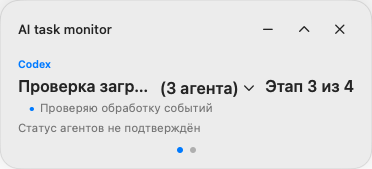
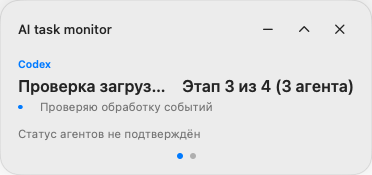
Publish macOS 0.3.13 and current screenshots [publish-verified]

diff --git a/docs/DECISIONS-AND-QUESTIONS.md b/docs/DECISIONS-AND-QUESTIONS.md
@@ -23,13 +23,44 @@
 - Запрос пользователя: сделать переключение задач по точкам независимым от обновления данных. Чтение источников и диагностика в текущей версии Windows выполняют синхронную работу на потоке окна; состояние источников и поздние ответы требуют безопасного разделения. Аналогичную проверку выполнить для macOS. До проверки при заблокированном чтении нельзя считать отклик подтверждённым.
 - На изолированном примере Windows PowerShell 5 фоновый runspace не удерживал интерфейс при ожидании, но удерживал процесс после окончания скрипта не менее восьми секунд. Этот способ не внедрён. Для безопасного переноса необходимо отдельно проверить жизненный цикл фонового сборщика, сохранение состояния источников и отбрасывание устаревших ответов; не останавливать работающие источники или записи принудительно без доказанной безопасности.
 - Прототип отдельного процесса чтения Windows проверен на синтетических данных локально и на изолированном Windows runner: при закрытии его владельца система завершает зависший процесс; для канала проверены права текущего пользователя и идентификатор подключившегося процесса. Настоящий обработчик точки проверен при задержанном тестовом чтении с подменённой отрисовкой. Прототип ещё не подключён к источникам приложения, фактическое окно и переключение при обновлении источников не проверены. Независимая проверка выявила необходимость сохранить события между ответами и устранить окно запуска процесса до привязки к владельцу. Эксперимент macOS переносит чтение Codex с потока интерфейса, но Claude и другие источники пока остаются синхронными. Необходимы проверки первоначального и затянувшегося чтения, смены языка и каталога, восстановления источника и устаревших ответов.
+- Синтетическая проверка Windows показала, что при переподключении Claude отложенное событие старого hook нельзя надёжно отличить по времени от нового события. Идентификатор подключения требует изменений команды hook, но старые версии монитора не распознают такую команду и могут добавить дубликат или не удалить её. Дополнительно между сверкой хеша и заменой общих настроек сохраняется гонка с другой записью. Изменение действующих hooks пока не внедрено.
 - При нескольких помощниках текущие источники не дают достоверного времени именно отображённого действия для сравнения разных журналов; неподтверждённое или завершённое действие нельзя выдавать за выполняющееся. Пользователь выбрал счётчик всех запущенных помощников до подтверждения их выхода, в том числе при неизвестном состоянии.
 - Решение пользователя: при наличии плана показывать число запущенных помощников в активном этапе; без плана или в паузе, пока активного этапа нет, — у названия задачи. Когда появится активный этап, переносить число в него. Текущие данные Windows и macOS подтверждают связь помощника с задачей, но не с конкретным этапом: число на активном этапе означает общее число связанных помощников, а не подтверждённое назначение каждого из них на этот шаг. Реализация и проверка ещё не завершены.
+- В рабочем дереве Windows подготовлена разметка для счётчика и локально проверены активный этап, отсутствие и неоднозначность этапа, обе локализации, отдельный процент и кнопка раскрытия списка. Это ещё не подключение устойчивого счётчика к источнику. Визуальный прогон выполняется; одна прежняя проверка превью требовала обновления под согласованную пометку о неподтверждённом состоянии.
+- На контрольном снимке Windows `109d66c` изолированные проверки прошли, включая усечение и подсказки. Проверены снимки WPF в светлой и тёмной темах: число у активного этапа и у названия в паузе, раскрытый список и подсказка на длинном названии. Это синтетическое превью с примерными данными; установленное приложение, реальные источники и физический клик ещё не проверены. Полная визуальная проверка потребует повторного снимка после подключения фонового чтения и счётчика.
+- На Windows `d9fbdae` дополнительно проверены синтетические WPF-снимки RU/EN в обеих темах: отдельные сообщения о неполном числе и о числе вместе со статусом помещаются в компактном и полном режимах. Владелец локального чтения и первоначальный вариант фонового канала проверялись отдельно; последние исправления канала и оставшиеся синхронные операции не входят в этот визуальный снимок. Установленная версия и реальный пользовательский источник не проверены.
+- Снимок Windows `d9fbdae` прошёл полный изолированный CI, включая программный клик и визуальные примеры. На следующем снимке `0898d33` независимые локальные проверки фонового канала прошли, включая тестовый pipe, переподключение и переполнение, но два CI-прогона не дождались старта синтетического источника; следующие проверки того шага не выполнялись. На диагностическом снимке `7bd34b8` владелец чтения завершился с `InvalidOperationException` на этапе ожидания подключения. Снимок `3293e9b` с расширенной диагностикой затем прошёл изолированные проверки запуска, локального источника и программного нажатия при задержанном чтении; причина прежнего отказа не установлена. Диагностика и часть других источников ещё могут задерживать поток окна.
 - Решение пользователя: уменьшать счётчик только после явного закрытия помощника. Завершение отдельного хода не доказывает закрытие. Надёжный сигнал закрытия и безопасное сохранение ранее подтверждённой связи при временной потере данных проверяются; если источник не сообщает о закрытии, число может оставаться устаревшим и не должно выдаваться за подтверждённо работающее.
-- Для локального Codex изучается внутренний источник: в [схеме OpenAI](https://github.com/openai/codex/blob/main/codex-rs/state/migrations/0021_thread_spawn_edges.sql) есть таблица связей `thread_spawn_edges`. Согласно [реализации закрытия](https://github.com/openai/codex/blob/main/codex-rs/core/src/agent/control/legacy.rs), запись `closed` появляется до остановки помощника и не доказывает, что она прошла успешно; `open` не доказывает выполняющуюся работу. Временные сессии могут отсутствовать в таблице, а закрытие родителя нельзя автоматически распространять на все дочерние записи. Проверяются дополнительное подтверждение результата, совместимость версий, полнота и безопасное чтение; на macOS доступ к этой базе в текущем мониторе отсутствует.
+- Проверка 24 ноября: существующая группировка считает только помощников текущего снимка и может уменьшить число при пропаже записи без подтверждения закрытия; на Windows это воспроизведено на искусственных данных, на Mac подтверждено чтением кода. Готовится накопление ранее проверенных связей с пометкой неопределённости. После перезапуска монитора и для не замеченных им помощников полнота остаётся неизвестной; надёжное событие успешного закрытия пока не подтверждено. Отдельный прототип счётчика выявил ошибку при смене поколения помощника и не подключён к приложению.
+- Неполнота числа и неизвестное состояние конкретных помощников — разные сведения. В подготовленном интерфейсе Windows и Mac для них предусмотрены отдельные варианты общей строки; нужно повторно проверить фактическую передачу признаков от источника и визуальную длину после интеграции. Состояние лишь видимых помощников не подтверждает полноту их списка.
+- Для macOS 15 сборка и синтетические проверки размещения прошли на контрольном снимке. Визуальная проверка обнаружила усечение числа в компактном режиме и большой промежуток между этапом и числом в полном окне; внесена правка и требуется повторный просмотр. Изолированная проверка с настоящим журналом официального Codex CLI не выполнялась: подходящий тестовый журнал отсутствует. Это не подтверждение установленного приложения или физического нажатия.
+- Контрольный снимок macOS `117f870` на macOS 15 прошёл сборку и автоматические проверки; в отрисовке компактного окна число стало помещаться. В полном окне оно всё ещё отделено от подписи этапа, поэтому подготовлен следующий вариант `6d206a2`; его визуальная проверка ожидает доступного macOS runner. macOS 26 также ожидает runner. Испытание реального канала Claude и официального Codex fixture не выполнялось; фоновые компоненты ещё не подтверждают поведение установленного приложения.
+- На контрольном снимке macOS `f3269cb` сборка и синтетические проверки модели удержания прошли на macOS 15 и 26. В светлой и тёмной отрисовке проверено расположение числа у активного этапа и у заголовка во время паузы; компактная строка с числом помещается. Превью получены из синтетических данных и не заменяют проверку установленного приложения или реального нажатия. Последующая интеграция потребует повторного сравнения.
+- На macOS 26 контрольный снимок `a594cdd` также визуально проверен для отдельных сообщений о неподтверждённом числе и о числе вместе со статусом, на русском и английском. Сборка прошла, но один тест фонового Claude упал на подготовительной проверке Stop; следующие группы этого шага не выполнялись. Исправление и дополнительная проверка гонки Stop/продолжение ещё не подтверждены CI.
+- На macOS 15 и 26 снимок `cbd0f3b` прошёл последующий синтетический прогон, включая исправленный тест Stop и проверки подтверждения связей и сохранения помощников. Рецензент затем выявил риск скрытия отдельной задачи, временного исчезновения счётчика при отсутствии свежего доказательства и повторного появления завершённой родительской задачи; готовятся исправления. Реальный AF_UNIX и официальный fixture остаются отдельно не проверенными.
+- На macOS 26 снимок `df05b10` не прошёл тест неоднозначного родителя: тест ожидал отсутствия распознанного дочернего файла. Проверка кода установила, что отдельная идентификация помощника допустима, но не должна создавать группу без полной подтверждённой цепочки. Готовится проверка обеих частей этого инварианта. Эксперимент с сигналом потери Claude-событий исключается из текущего выпуска: полная безопасная запись требует более широкого изменения существующего hook. Существующий риск пропущенного события при занятом журнале остаётся отдельным ограничением.
+- На снимке macOS `c652e3b` сборка, проверка связи/счётчика и программная доставка нажатия в окно при задержанном чтении Codex или Claude прошли на macOS 15 и 26. Проверены синтетические SwiftUI-снимки обеих версий в светлой и тёмной темах: число находится у активного этапа и у названия в паузе. Это не проверка физической мыши, установленного приложения или всех подключённых источников. Полный прогон `c652e3b` не прошёл из-за проверки канала в среде, запрещавшей все сокеты; отдельный снимок `fcbbac9` затем прошёл проверку настоящего локального канала Claude на macOS 26 в среде с разрешением только временного сокета и отрицательными проверками сети, постороннего сокета и профиля. Реальная установленная интеграция Claude ещё не проверена.
+- На снимке macOS `cb569fd` на macOS 15 и 26 прошли два сценария штатного двухсекундного таймера: программное нажатие на точку в окне обрабатывалось до завершения задержанного чтения Codex или Claude, выбор сохранялся после ответа. Использовались синтетические журналы и отключённые внешние источники; системные настройки одноразового runner доступны через cfprefsd. Подключённые внешние источники, физическая мышь и установленное приложение этой проверкой не покрыты. Следующий снимок дополнительно исправляет согласованность доказательств связи помощников и требует повторной проверки.
+- На снимке macOS `e1e4e410` без незавершённого прототипа внешних источников на macOS 15 и 26 повторно прошли сценарии таймера, проверки повторного чтения, ротации и доказательств связи. В том числе проверены две группы помощников и изменение заголовка между чтениями. Это синтетические данные; установленное приложение и физическое нажатие ещё не проверены.
+- Вынос диагностики Windows и внешних источников обеих платформ находится в работе. На промежуточном снимке Windows `9a6b8a0` программный тест штатного таймера с заблокированным синтетическим журналом прошёл; отдельная проверка фактического диагностического процесса завершилась тайм-аутом запуска, хотя повтор через изолированный тест прошёл. Проверки упаковки и WPF-превью на `a4e2b54` прошли. Рецензент выявил требующие исправления риски повторной очистки после потери подтверждения, возврата старых событий и пропуска кратковременных наблюдений; проверяется также безопасное восстановление фонового процесса и удаление временных копий. Ранние модели Mac для сохранения внешних событий ещё не подключены к реальным источникам. Переключение при заблокированных иных источниках остаётся непроверенным.
+- На Windows `76218ac` после последовательной подготовки восьми тестовых процессов прошла проверка их одновременной записи в журнал; постоянные пользовательский и системный PATH не изменились. На `253bff8` прямые проверки фонового процесса не дождались подключения, хотя повторные проверки процесса и очереди во вложенном изолированном профиле прошли. Причина задержки первого запуска не установлена. На macOS 26 автономные синтетические тесты очереди и передачи данных `7aaa656` прошли; в действующее приложение они ещё не встроены.
+- Проверка Windows на синтетическом журнале воспроизвела потерю карточки Claude, когда Stop и общий сигнал пропуска оказались в одном чтении. Подготовлен вариант, сохраняющий карточку неподтверждённой и отдельно показывающий неполноту источника; его проверка в CI выполняется. После общего пропуска точную границу новых сессий подтвердить нельзя, поэтому состояние может оставаться неподтверждённым до пересоздания читателя. Ручной запуск Claude и реальные пользовательские журналы не проверялись.
+- На контрольном снимке Windows `fc575de` синтетический production worker прошёл сценарий Claude с пропуском, задержанным ответом и переподключением; проверки настроек и паритета источников также прошли. Два других теста не дождались холодного запуска: подготовлена дополнительная диагностика. Фактический пользовательский журнал не читался.
+- На Windows `49c00b4` прошли изолированные проверки PID, очистки и самостоятельной защиты временного профиля. Два теста чтения не дождались готовности в течение 15 секунд; задержка наблюдалась при загрузке модуля, до подтверждённого чтения задачи. Метки используют именованные события; возможная задержка открытия самой метки отдельно не измерена.
+- Для локального Codex изучается внутренний источник: в [схеме OpenAI](https://github.com/openai/codex/blob/main/codex-rs/state/migrations/0021_thread_spawn_edges.sql) есть таблица связей `thread_spawn_edges`. Согласно [реализации закрытия](https://github.com/openai/codex/blob/ebd5c2fddc2ec215c7ab1108564bc209907c7fee/codex-rs/core/src/agent/control/legacy.rs), запись `closed` появляется до остановки помощника и не доказывает, что она прошла успешно; `open` не доказывает выполняющуюся работу. Временные сессии могут отсутствовать в таблице, а закрытие родителя нельзя автоматически распространять на все дочерние записи. В [более старой реализации](https://github.com/openai/codex/blob/38771c9082535aa16b4c4d0395d3532f32f656ff/codex-rs/core/src/agent/control.rs) успешный запрос закрытия сам по себе не ждёт завершения; текущая версия имеет другой механизм, а протокол V2 не предоставляет тот же `close_agent`. Один журнал может продолжаться разными версиями. Поэтому версия начала журнала и отдельное событие ещё не доказывают закрытие: нужна непрерывная проверенная история и надёжный контракт конкретного события. На macOS доступ к этой базе в текущем мониторе отсутствует.
 - 24 ноября предварительные изменения компактного режима перенесены в `windows` (1c78465) и `macos` (7f6cde1), установщики не обновлялись. Последующее решение пользователя о счётчике в этих исходниках ещё не реализовано. Изолированные проверки Windows включали программное переключение и визуальные состояния в светлой и тёмной темах; на macOS 15 и 26 прошли сборка тестов и 10 новых проверок выбора, а также синтетические превью. Окна установленных приложений, физическое нажатие и поведение во время заблокированного чтения не проверены. На Mac видимые отдельные помощники могут оставаться при отсутствии текущего подтверждения идентичности.
 - macOS 0.3.11 при нескольких журналах одного чата не считает старый журнал единственным: ранее видимая карточка сохраняется неподтверждённой, а новая может не появиться. Нужен безопасный способ показать новые наблюдения без ложного подтверждения состояния или завершения.
 - Решение пользователя: если состояние задачи Codex нельзя надёжно подтвердить, показывать карточку с пометкой «Статус не подтверждён», не объявляя работу успешно завершённой. Это уточнение заменяет ранее выбранное скрытие в рассматриваемом случае и не относится автоматически к поведению других источников.
+- Уточнение пользователя от 24 ноября: пока в подтверждённом плане нет активного этапа, число незакрытых помощников отображается у названия задачи; после начала этапа — у этого этапа. Ранее пользователь попросил отображать агентов в активном этапе и раскрывать их действия в полном окне. Реализация этого требования: разместить раскрытый список непосредственно под активным этапом, а при отсутствии такого этапа — у названия задачи. В компактном окне имена и действия помощников не раскрываются. Принадлежность к этапу означает место отображения общего числа помощников задачи, а не подтверждённое назначение каждого помощника на этот этап.
+- Визуальный контроль снимков Windows и превью macOS из кандидатов 24 ноября показал, что кнопка количества находилась у активного этапа, но раскрытый список появлялся выше плана. Это расхождение с расположением у этапа исправляется на обеих платформах; финальные окна и снимки ещё необходимо проверить повторно.
+- Проверка Windows на синтетических файлах воспроизвела подмену временного файла журнала до замены основного файла. Новая фоновая запись увеличивает частоту такой операции; кандидат Windows нельзя считать готовым к публикации до безопасного решения. На реальных пользовательских данных эксперимент не выполнялся.
+- Автоматическая проверка отклонила последующую команду синтетической проверки записи, включавшую удаление её временной папки (`blocked by policy`; конкретная причина не указана). Отдельно отклонено удаление синтетической папки `aitm-agent-placement-1f47079ee0bd4f2e9bb32d14695ee673`; она оставлена в пользовательском Temp. Повторных попыток обхода отказа не было.
 - 23 ноября 2026 года опубликована Windows 0.2.13. Исходники находятся в ветке `windows`; изолированные проверки обнаружения, группировки, интерфейса и установщика прошли на снимке с тем же деревом исходников. Реальные заголовки двух журналов родительского чата согласованы; полный путь через SQLite и установленное приложение отдельно не проверялись. Помощник с неподтверждённым состоянием может оставаться в счётчике после завершения, если источник не передал подтверждение.
 - 24 ноября 2026 года опубликована macOS 0.3.12. Исходники находятся в ветке `macos`; изолированные проверки прошли на macOS 15 и 26. Проверены обе архитектуры, подпись ad hoc, содержимое DMG и служебный запуск приложения в образе и после копирования. Полный прежний набор тестов остаётся заблокированным до исправления изоляции. Превью SwiftUI не подтверждают внешний вид установленного окна; работа показанного ранее чата ChatGPT Work отдельно не проверена.
 - [Hooks OpenAI](https://learn.chatgpt.com/docs/hooks#hooks-with-cloud-orchestration) документированы для полностью локальных задач Work; совместимость конкретной версии приложения, доступность названия и актуального действия ещё не проверены. События могут содержать текст запроса, аргументы и результаты инструментов. Для Work Cloud этот механизм доступен только в описанных OpenAI управляемых конфигурациях. Не считать поддержку Work реализованной без отдельной проверки и обработки приватных данных.
+
+## Кандидат macOS 0.3.13
+
+- Проверен снимок `ab118d28` на одноразовых macOS 15 и 26 (run 45471419620): отдельное чтение Codex/Claude и переключение при задержке этих источников, группировка, план и прокрутка раскрытых помощников на синтетических данных; проверены универсальное приложение, DMG и подпись ad hoc. Это не физический клик и не проверка работы с реальными аккаунтами.
+- Остальные проверки источников и обслуживание журнала могут задержать поток интерфейса. Неподтверждённые помощники могут сохраняться в счётчике до сброса наблюдения, поскольку достоверное событие закрытия не подтверждено. Пользователю не обещана полная независимость или точный счётчик.
+- Снимки macOS являются SwiftUI-превью с примерами задач; визуальная проверка именно установленного нативного окна не выполнялась.

diff --git a/README.md b/README.md
@@ -70,7 +70,7 @@ The [project license](LICENSE) allows free use, including internal business use,
 | ![Windows assistants, dark](screenshots/windows-agents-dark.png) | ![Windows compact assistants, dark](screenshots/windows-compact-agents-dark.png) | ![Windows compact Claude Code, dark](screenshots/windows-compact-claude-dark.png) |
 | ![Windows assistants, light](screenshots/windows-agents-light.png) | ![Windows compact assistants, light](screenshots/windows-compact-agents-light.png) | ![Windows compact Claude Code, light](screenshots/windows-compact-claude-light.png) |
 
-### macOS 0.3.12
+### macOS 0.3.13
 
 | Развёрнуто / Expanded | Компактно / Compact | Настройки / Settings |
 | --- | --- | --- |
@@ -82,16 +82,10 @@ The [project license](LICENSE) allows free use, including internal business use,
 | ![macOS assistants, dark](screenshots/macos-agents-dark.png) | ![macOS compact assistants, dark](screenshots/macos-compact-agents-dark.png) | ![macOS compact Claude Code, dark](screenshots/macos-compact-claude-dark.png) |
 | ![macOS assistants, light](screenshots/macos-agents-light.png) | ![macOS compact assistants, light](screenshots/macos-compact-agents-light.png) | ![macOS compact Claude Code, light](screenshots/macos-compact-claude-light.png) |
 
-### Компактный режим в исходниках / Compact view in the source
-
-Эти превью показывают изменения в исходниках, которые ещё не входят в установщики версий выше. Названия и действия задач приведены для примера.
-
-These previews show source changes that are not yet included in the installers above. Task titles and activities are examples.
-
-| Windows | macOS |
+| macOS expanded (English) | macOS compact (English) |
 | --- | --- |
-| ![Windows source compact, dark](screenshots/windows-source-compact-dark.png) | ![macOS source compact, dark](screenshots/macos-source-compact-dark.png) |
-| ![Windows source compact, light](screenshots/windows-source-compact-light.png) | ![macOS source compact, light](screenshots/macos-source-compact-light.png) |
+| ![macOS expanded, English, dark](screenshots/macos-en-expanded-dark.png) | ![macOS compact, English, dark](screenshots/macos-en-compact-dark.png) |
+| ![macOS expanded, English, light](screenshots/macos-en-expanded-light.png) | ![macOS compact, English, light](screenshots/macos-en-compact-light.png) |
 
 Задачи показаны для примера. Снимки macOS — превью интерфейса; системное оформление окна может отличаться.
 
